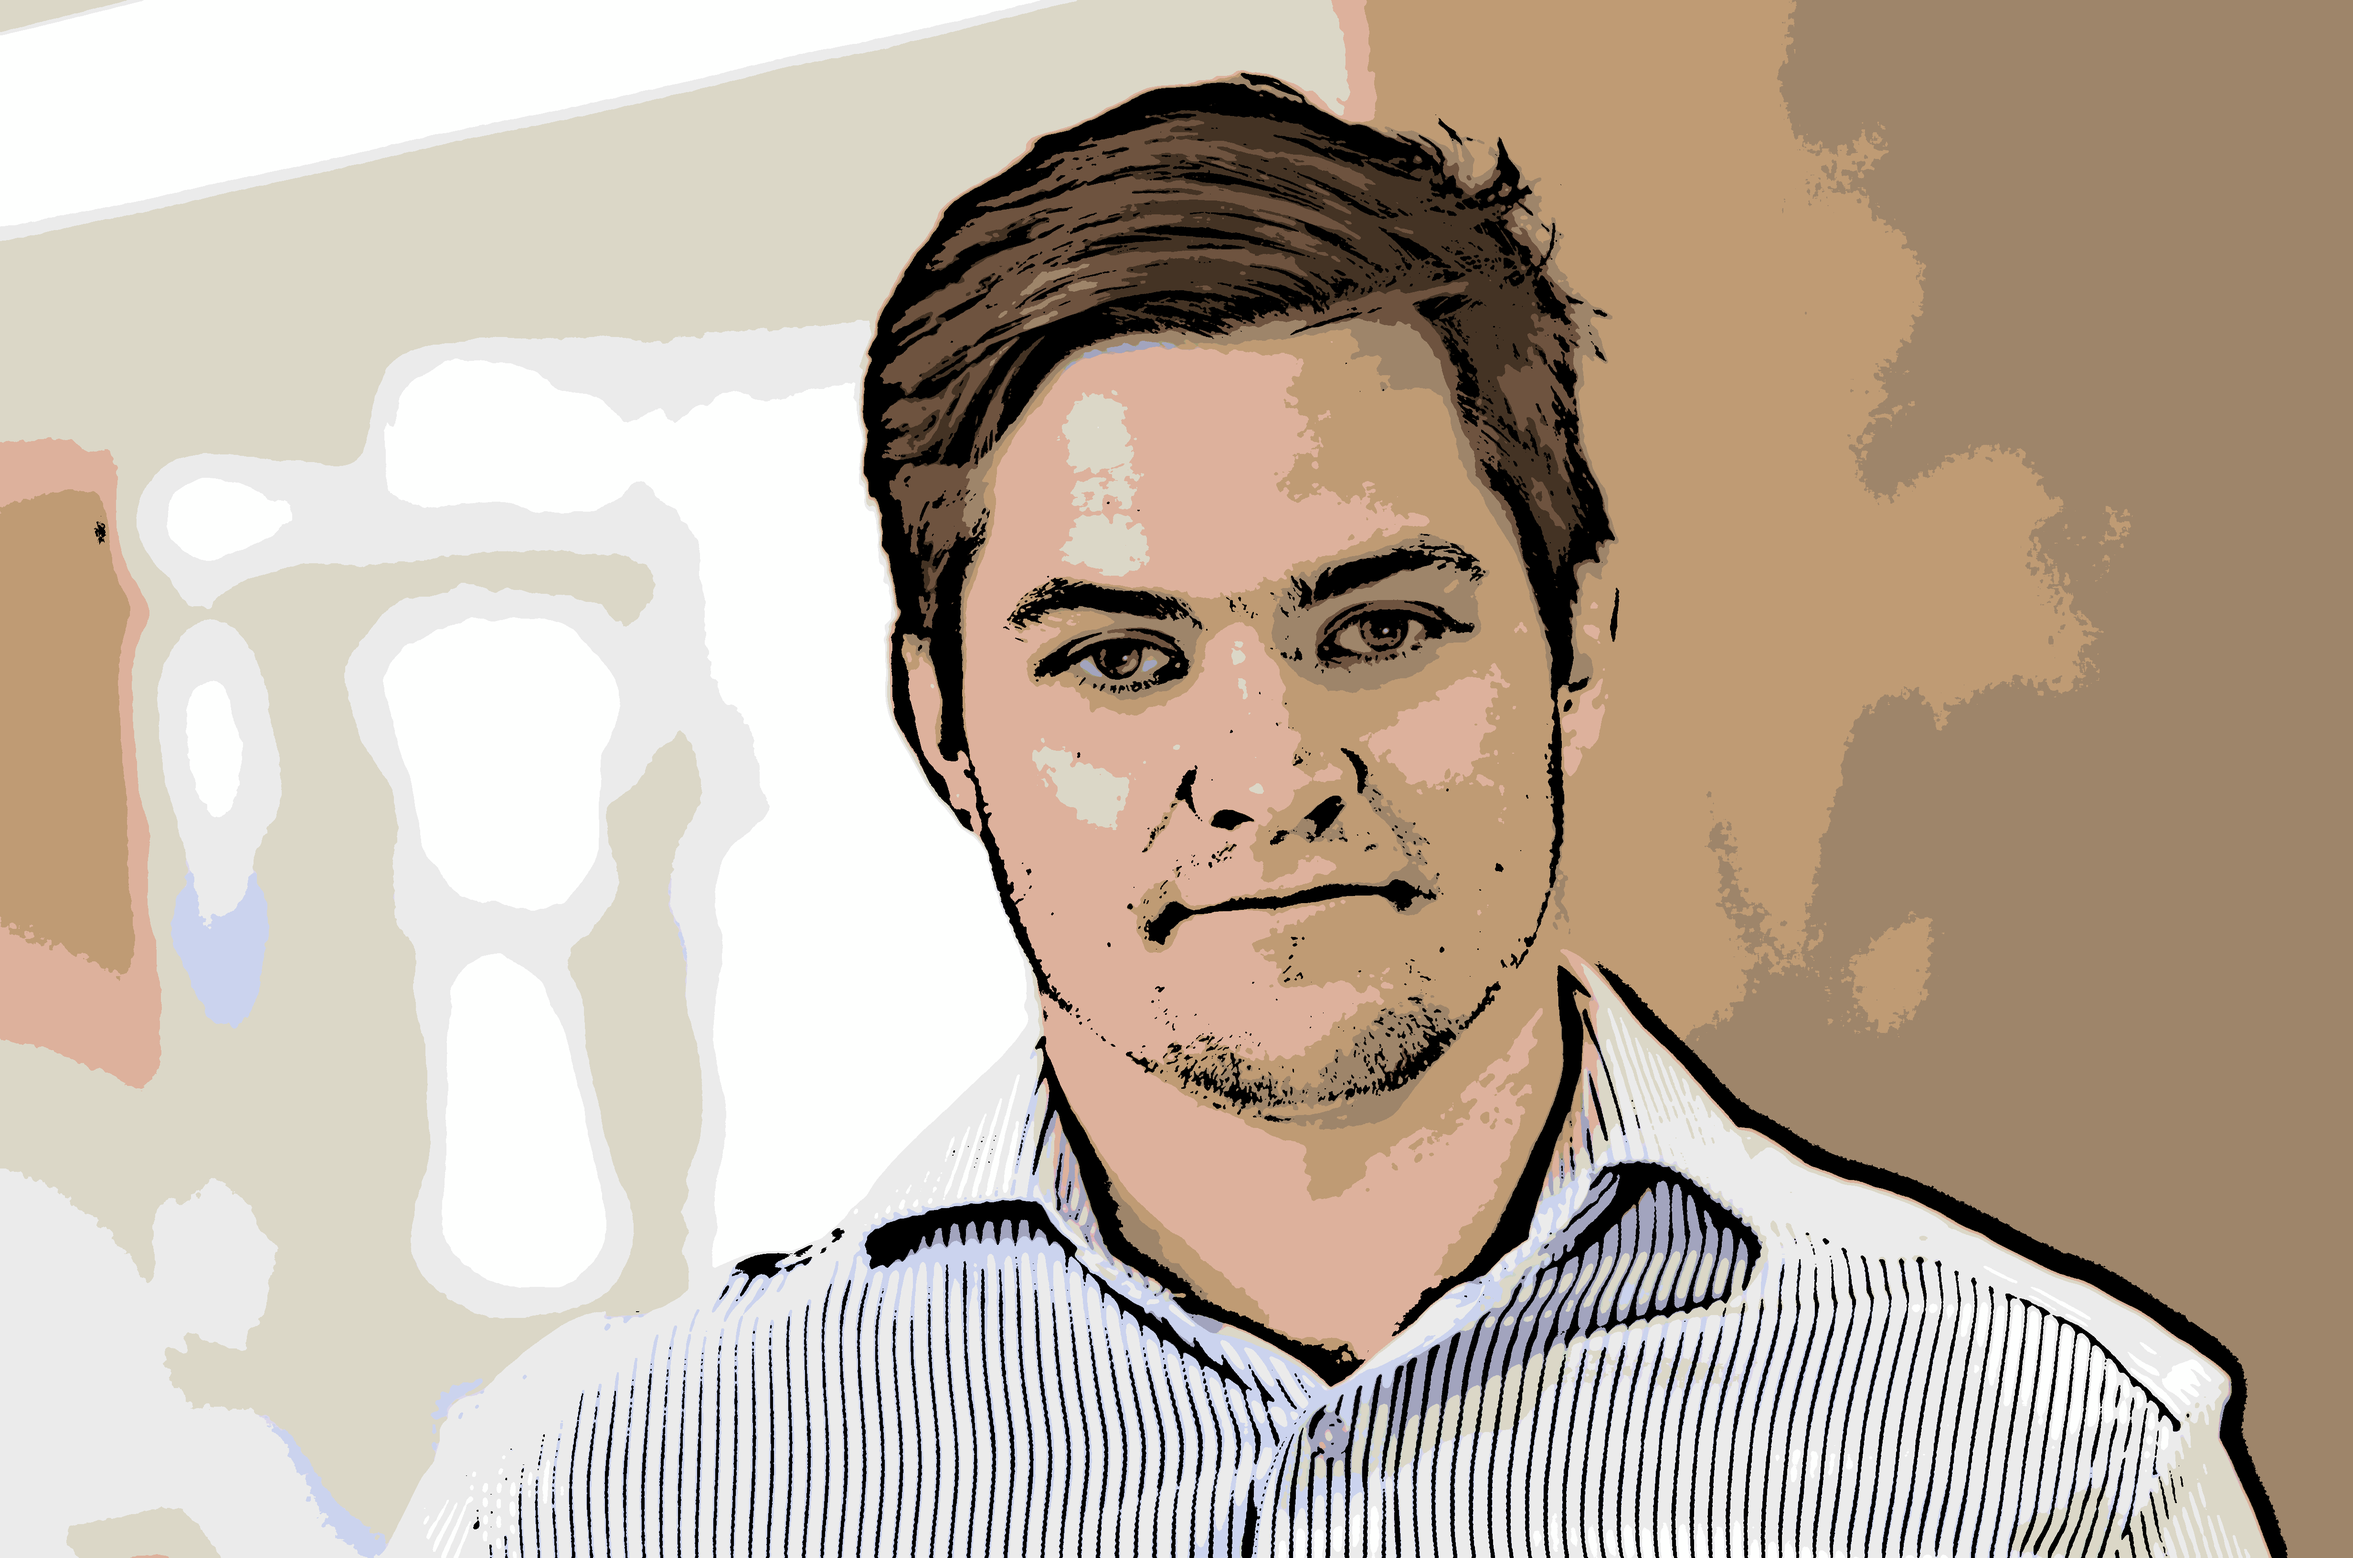
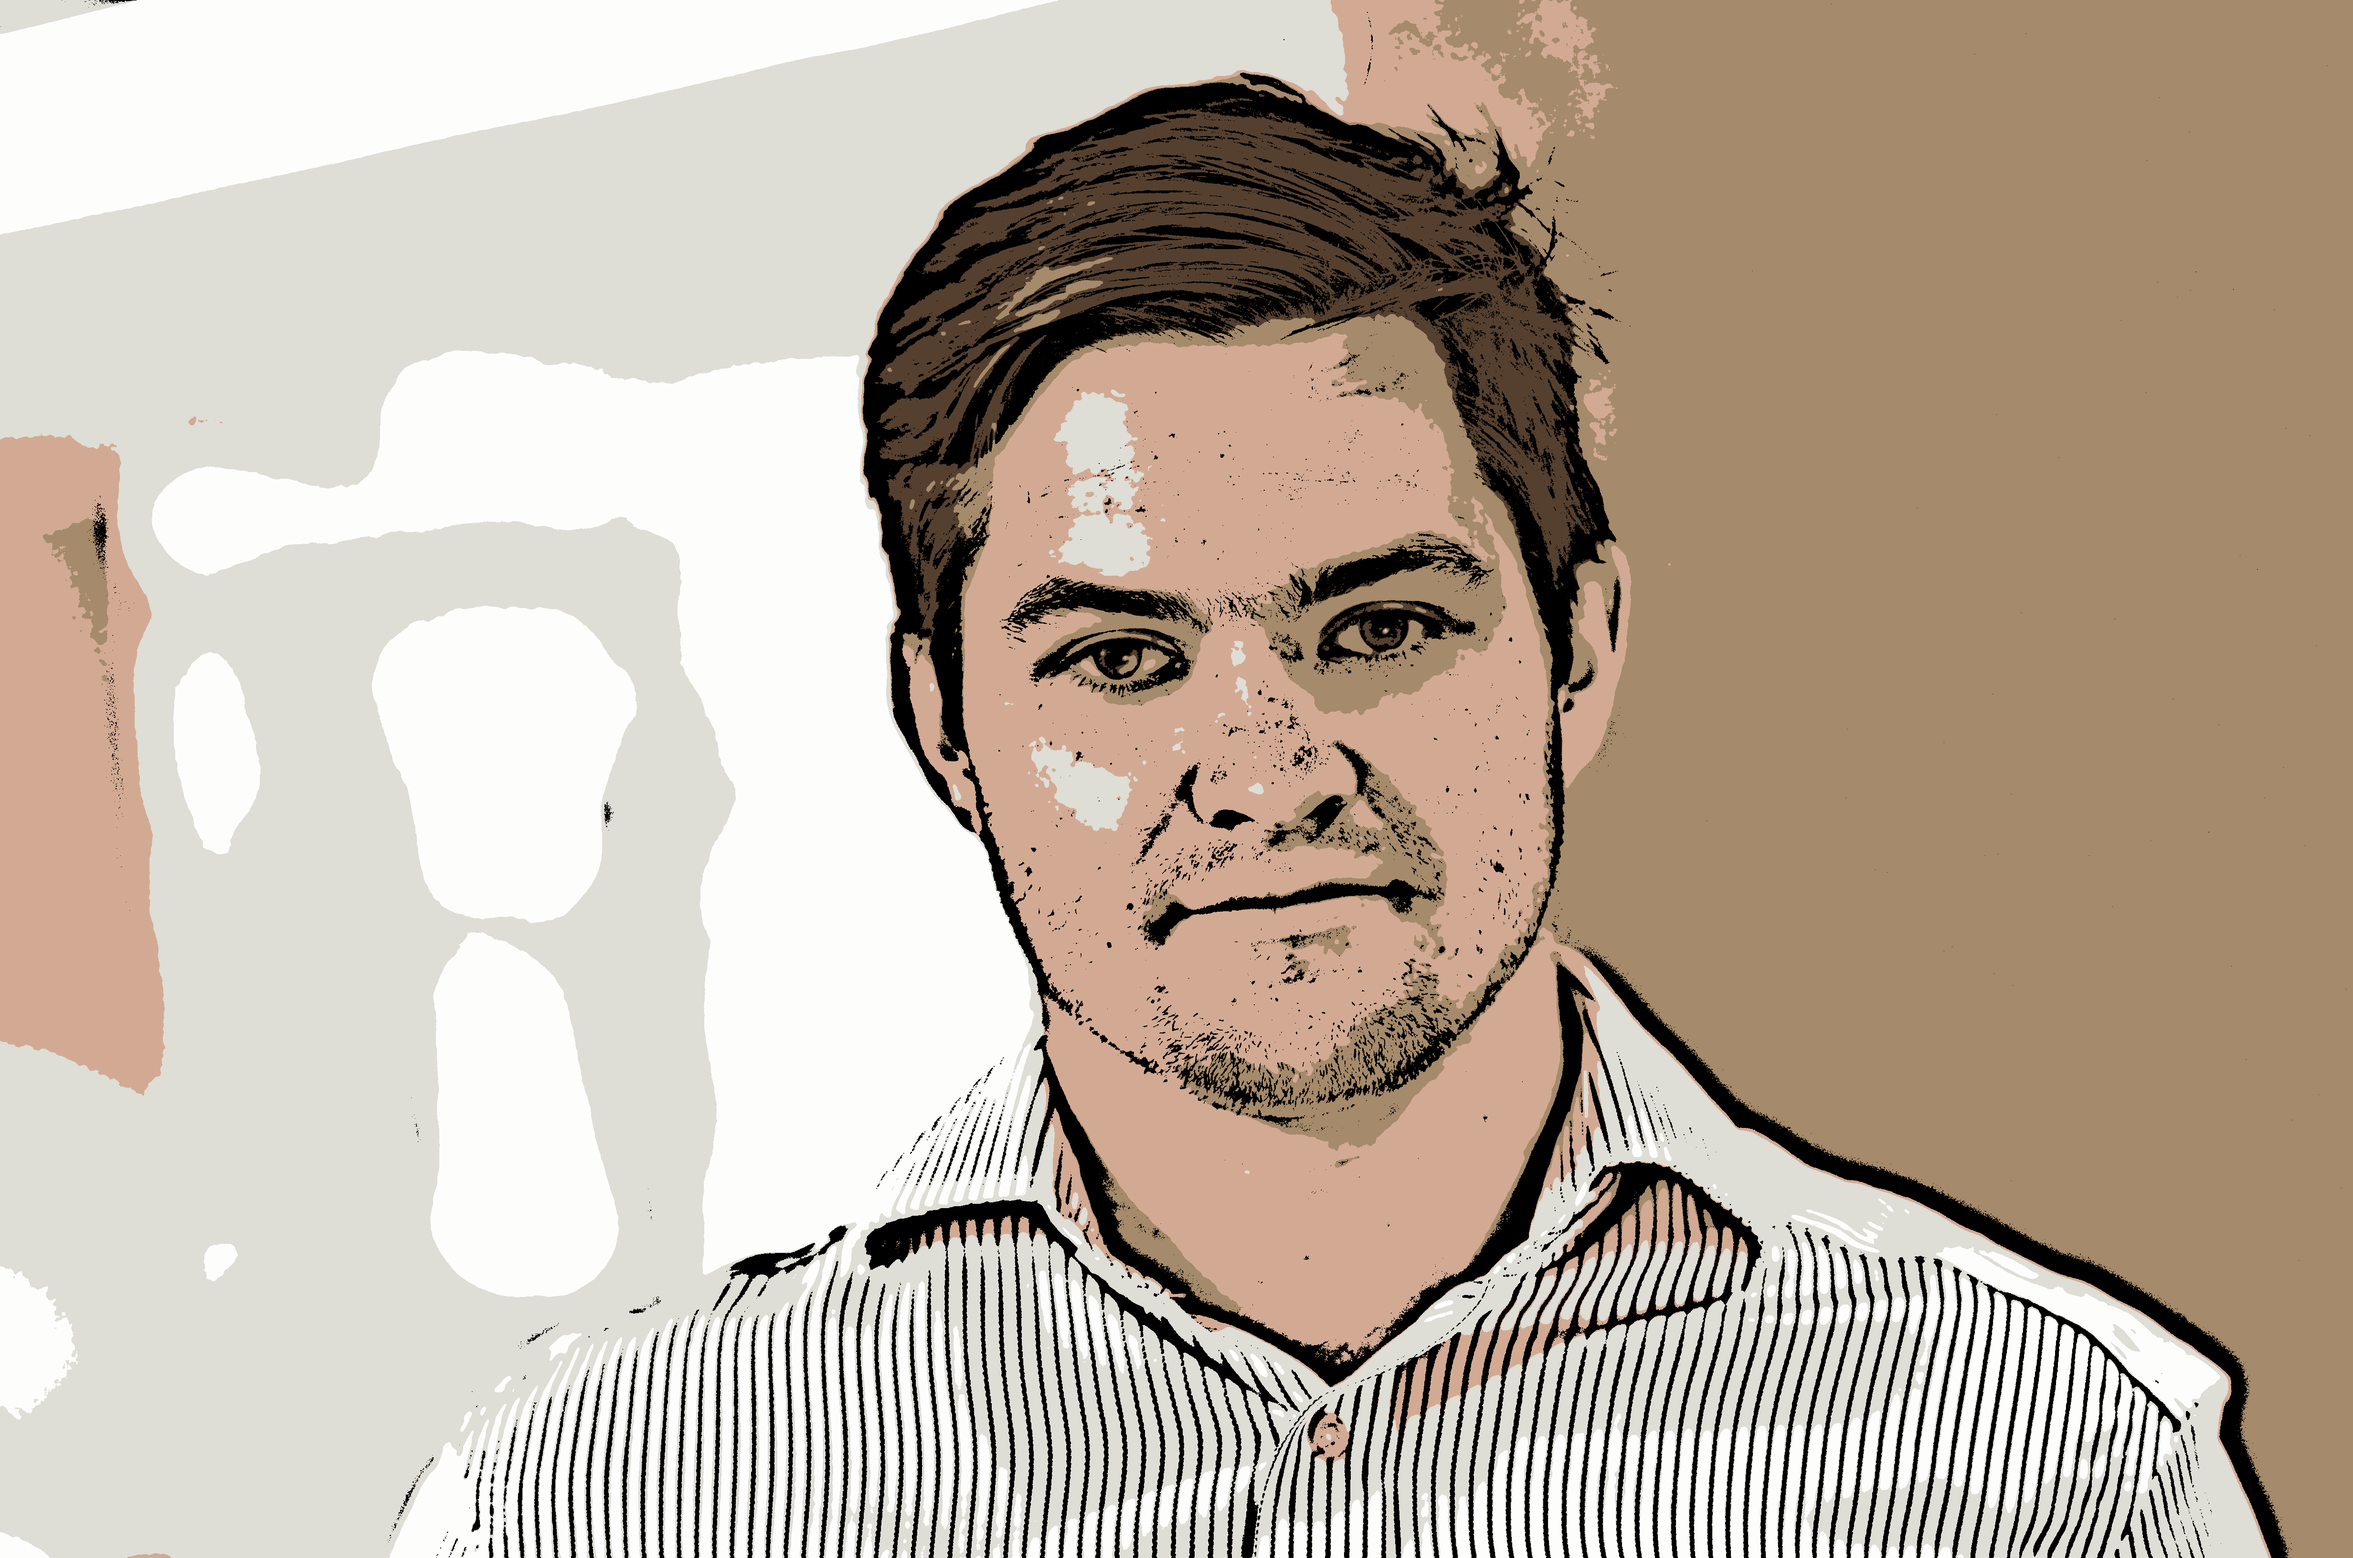
write edge only image

diff --git a/cartoonify.py b/cartoonify.py
@@ -1,7 +1,7 @@
 import cv2
 import numpy as np
 
-total_color = 10 #k-means
+total_color = 5 #k-means
 max_iter = 20
 epsilon = 0.001
 
@@ -9,14 +9,16 @@ d = 50 # diameter of pixel neighborhood
 sigmaColor = 200
 sigmaSpace = 200
 
-blur_value = 13
-line_size = 251
+blur_value = 9
+line_size = 201
 
 def get_edges(img,line_size,blur_value):
     print('finding image edges')
-    gray_blur = cv2.medianBlur(img, 5)
+    gray_blur = img
+    #gray_blur = cv2.medianBlur(img, 21)
     edges = cv2.adaptiveThreshold(gray_blur, 255, cv2.ADAPTIVE_THRESH_GAUSSIAN_C, cv2.THRESH_BINARY, line_size, blur_value)
-    cv2.imwrite(f'gaussian_edge_line{line_size}_blur{blur_value}.png',edges)
+    #cv2.imwrite(f'edge_line{line_size}_blur{blur_value}.png',edges)
+    cv2.imwrite('edges.png',edges)
     return edges
 
 # effect is undesired color reduction
@@ -41,7 +43,6 @@ def main():
     img = cv2.imread(r'headshot.png')
 
     img_newcolor = color_quantization(img, total_color)
-    #img_newcolor = img
 
     #blurred = cv2.bilateralFilter(img_newcolor, d=d, sigmaColor=sigmaColor,sigmaSpace=sigmaSpace)
     blurred = cv2.medianBlur(img_newcolor,11)

diff --git a/README.md b/README.md
@@ -12,3 +12,7 @@ Simple script to apply transformations to a headshot for use as a profile pictur
 
 <img src="cartoon.png" alt="cartoon image" width="400"/>
 
+## Edges Only 
+
+<img src="edges.png" alt-="edges" width="400"/>
+
